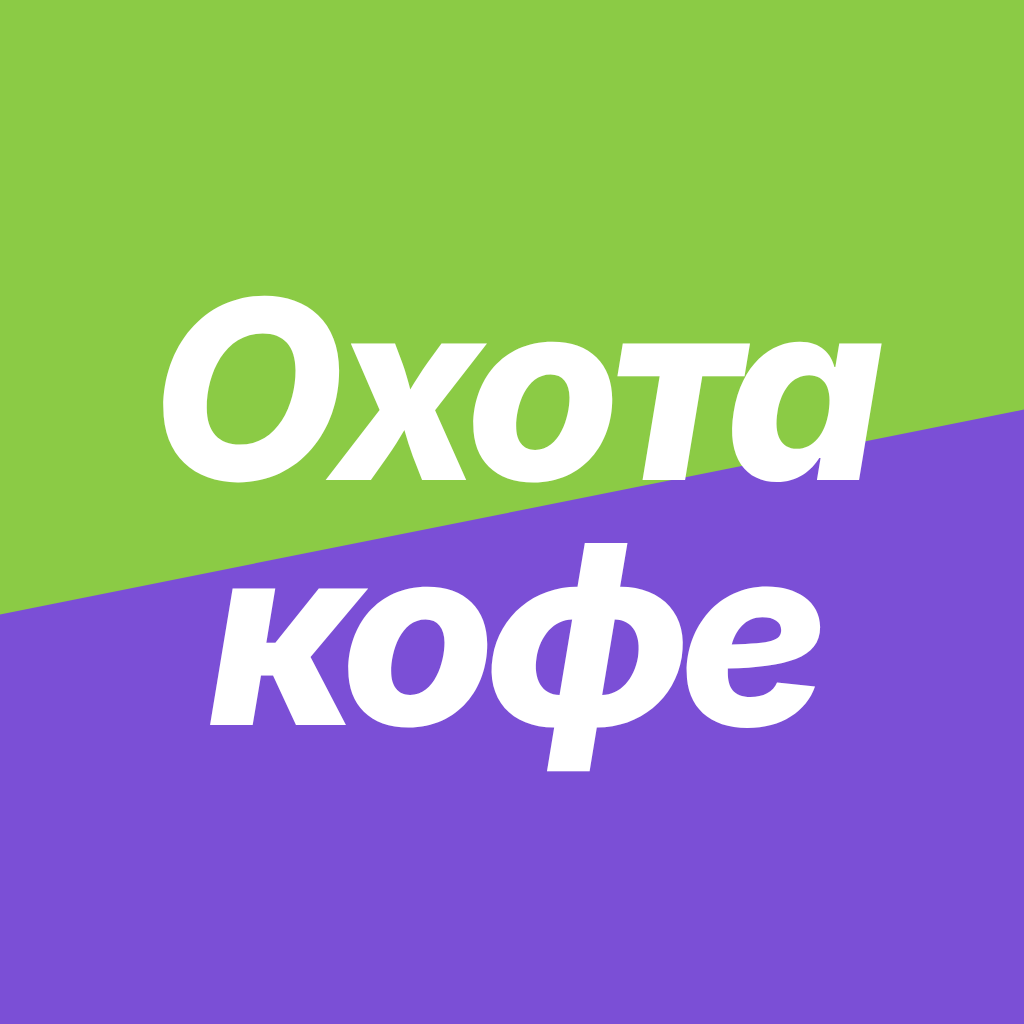
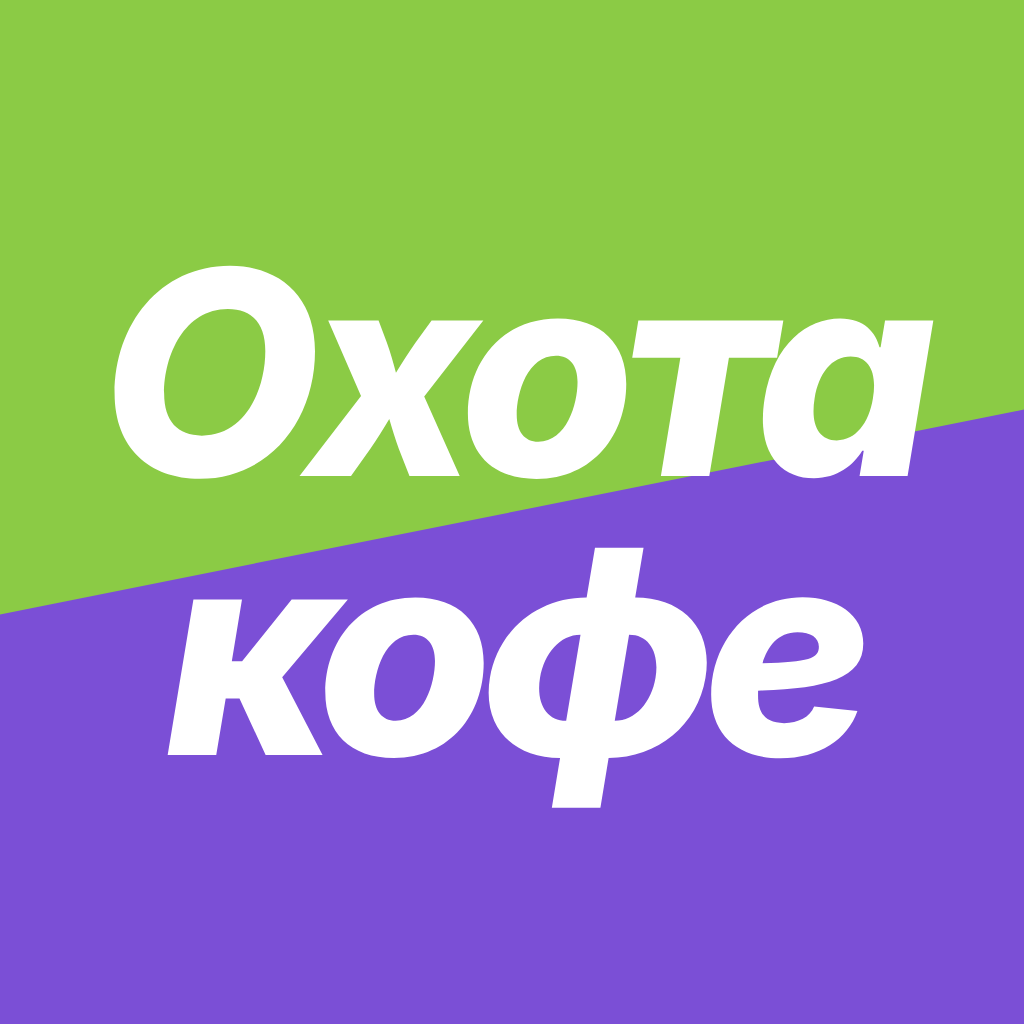
Иконка с диагональю и текстом «Охота кофе», быстрое исчезновение заставки
- иконка приложения: зелёный верх, фиолетовый низ, «Охота кофе» в две строки (iOS, Android, веб)
- apple-touch-icon вшит в страницу, чтобы iOS получал его и при защите проекта на Vercel
- заставка тает за 0,18 с вместо 0,6 с: зелёный верх не задерживается над главной

Claude-Session: https://claude.ai/code/session_01G92gPsDfwdcUEBxVwkmykn

Changed region(s): [[0.0938, 0.25, 0.9062, 0.4688], [0.1562, 0.5312, 0.8438, 0.8125]]

diff --git a/apps/mobile/index.html b/apps/mobile/index.html
@@ -10,7 +10,7 @@
     <meta name="mobile-web-app-capable" content="yes" />
     <meta name="apple-mobile-web-app-status-bar-style" content="black-translucent" />
     <link rel="manifest" href="/manifest.webmanifest" />
-    <link rel="apple-touch-icon" href="/apple-touch-icon.png" />
[1 lines of base64/hex data omitted]
     <meta name="apple-mobile-web-app-title" content="Охота кофе" />
     <title>Охота кофе</title>
   </head>

diff --git a/apps/mobile/src/styles.css b/apps/mobile/src/styles.css
@@ -616,3 +616,7 @@ body.kb .tabbar{display:none}
 
 /* экраны переключаются мгновенно, без проявления: цвет верхней полосы меняется в том же кадре */
 .screen{transition:none}
+
+/* заставка исчезает быстро: зелёный верх не задерживается над главной */
+#splash{transition:opacity .18s ease}
+#splash.hide{transform:none}

diff --git a/apps/mobile/src/components/Chrome.tsx b/apps/mobile/src/components/Chrome.tsx
@@ -55,7 +55,7 @@ export function Splash({ ready, onDone }: { ready: boolean; onDone: () => void }
     if (!hide) return;
     useUi.getState().setSplash(false);
     onDone();
-    const t = setTimeout(() => setGone(true), 700);
+    const t = setTimeout(() => setGone(true), 250);
     return () => clearTimeout(t);
   }, [hide]); // eslint-disable-line react-hooks/exhaustive-deps
   if (gone) return null;
